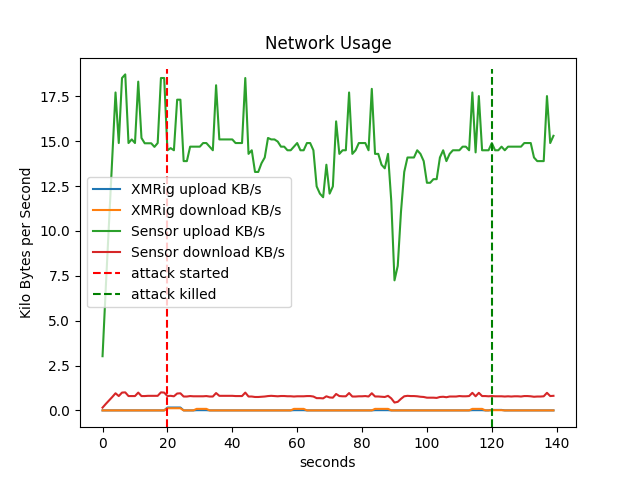
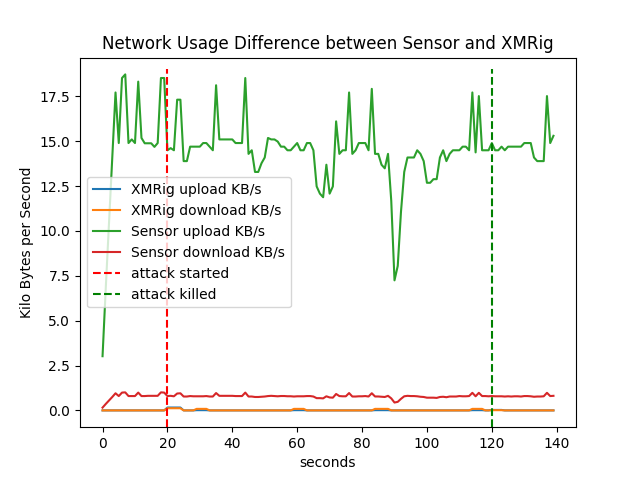
update

Changed region(s): [[0.1562, 0.0625, 0.875, 0.125]]

diff --git a/main.py b/main.py
@@ -27,7 +27,7 @@ upxmr,downxmr,upsensor,downsensor = Parser("nethogs.txt").parse()
 
 
 #plt.plot(memory, label="Sent KB/s")
-plt.title("Network Usage")
+plt.title("Network Usage Difference between Sensor and XMRig")
 plt.plot(upxmr, label="XMRig upload KB/s")
 plt.plot(downxmr, label="XMRig download KB/s")
 plt.plot(upsensor, label="Sensor upload KB/s")
